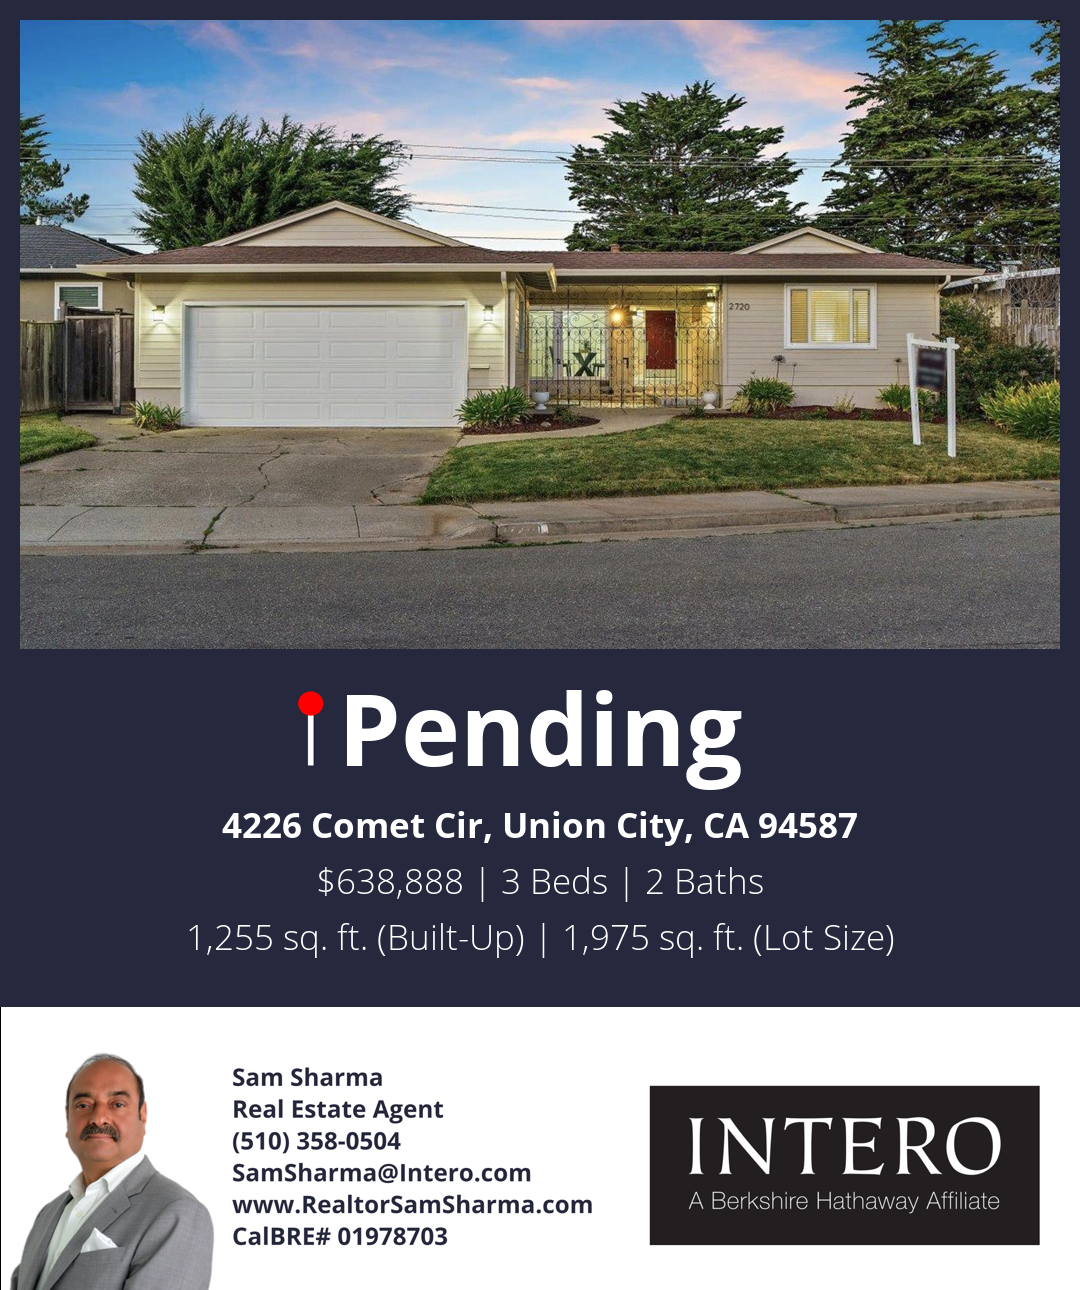
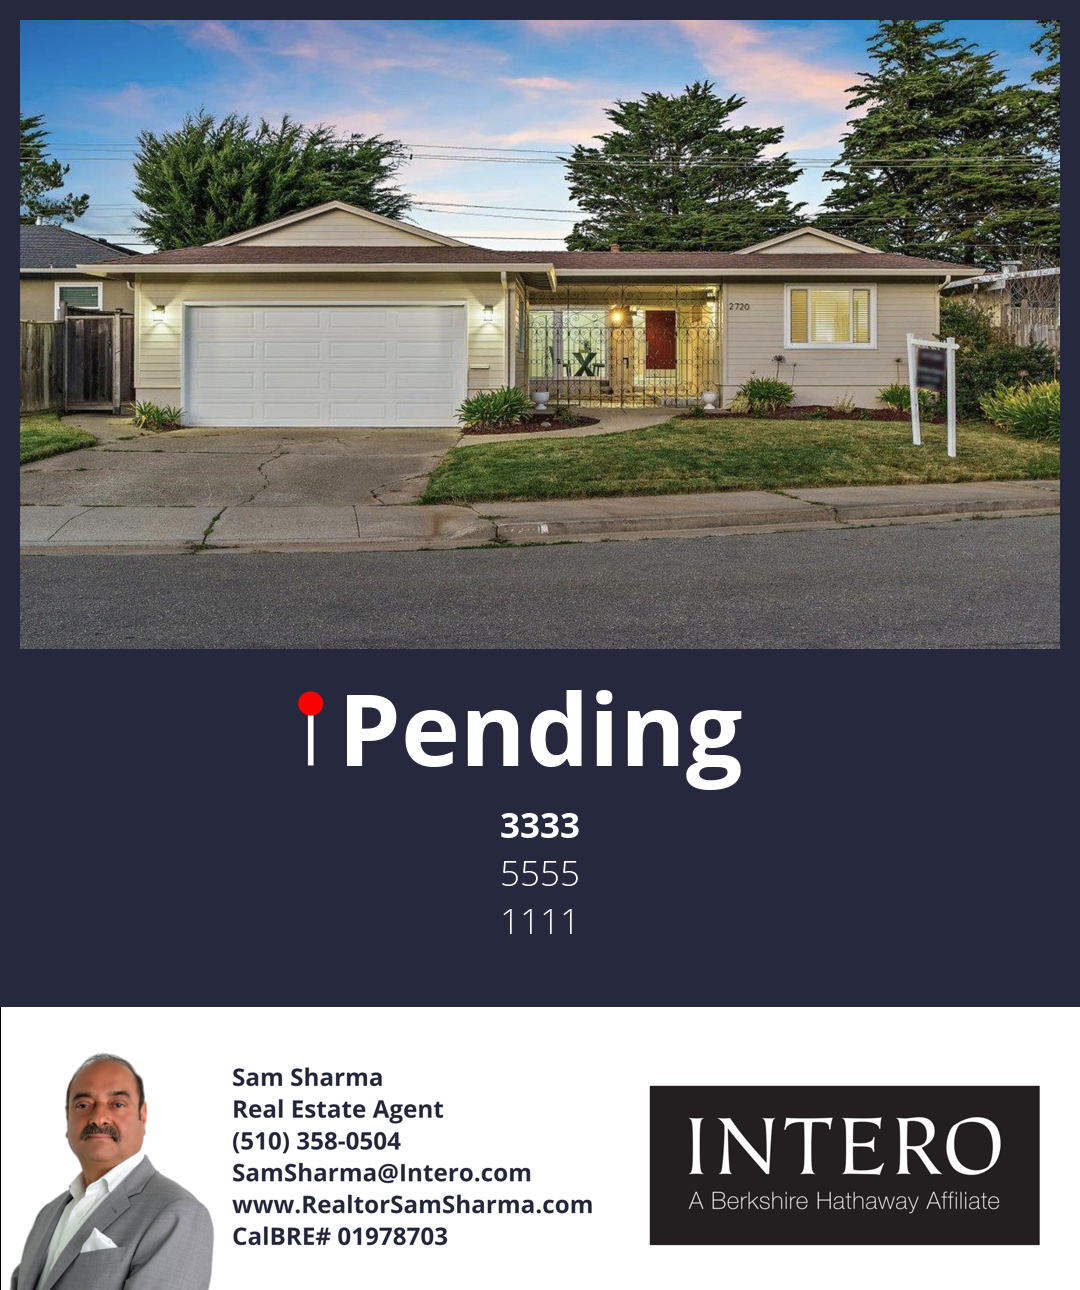
generating and rendering image

diff --git a/app/page.tsx b/app/page.tsx
@@ -1,15 +1,30 @@
+"use client";
 import Image from "next/image";
 import runPythonScript from "./api/hello/runPyScript";
-import { useState } from "react";
+import { useEffect, useState } from "react";
+import ImgDiv from "./form";
+import Form from "./form";
 
-export default async function Home() {
-  const staticData = await fetch(`http://localhost:3000/api/hello`, {
-    cache: "force-cache",
-  });
+export default function Home() {
+  const [showImg, setShowImg] = useState(false);
+  const [fileName, setFileName] = useState("output");
 
-  const staticDataJSON = await staticData.json();
-  console.log("JSON.stringify(staticData, null, 2)");
-  console.log(JSON.stringify(staticDataJSON, null, 2));
+  // useEffect(() => {
+  //   const staticData = fetch(`http://localhost:3000/api/hello`, {
+  //     cache: "no-cache",
+  //   });
+
+  //   staticData
+  //     .then((res) => {
+  //       return res.json();
+  //     })
+  //     .then((data) => {
+  //       console.log(data);
+  //       console.log("data");
+  //       setShowImg(true);
+  //     });
+  // }, []);
+
   const mockReq = {} as any; // Replace with actual data if necessary
   const mockRes = {
     status: (statusCode: number) => ({
@@ -18,9 +33,7 @@ export default async function Home() {
       },
     }),
   } as any;
-  await runPythonScript(mockReq, mockRes);
-
-  console.log('completed"');
+  // runPythonScript(mockReq, mockRes);
 
   return (
     <main className="flex min-h-screen flex-col items-center justify-between p-24">
@@ -29,7 +42,23 @@ export default async function Home() {
           Auto Design Generator
           <code className="font-mono font-bold">app/page.tsx</code>
         </p>
-        <img src="public/output.png" />
+        {/* <ImgDiv /> */}
+        <Form
+          setShowImg={setShowImg}
+          fileName={fileName}
+          setFileName={setFileName}
+        />
+        {showImg && (
+          <Image
+            src={`/${fileName}`}
+            alt="Next.js Logo"
+            width={700}
+            height={500}
+            priority
+            key={Date.now()}
+          />
+        )}
+
         <div className="fixed bottom-0 left-0 flex h-48 w-full items-end justify-center bg-gradient-to-t from-white via-white dark:from-black dark:via-black lg:static lg:h-auto lg:w-auto lg:bg-none">
           <a
             className="pointer-events-none flex place-items-center gap-2 p-8 lg:pointer-events-auto lg:p-0"

diff --git a/app/form.tsx b/app/form.tsx
@@ -1,0 +1,90 @@
+import { useState } from "react";
+
+interface FormProps {
+  setShowImg: React.Dispatch<React.SetStateAction<boolean>>;
+  setFileName: React.Dispatch<React.SetStateAction<string>>;
+  fileName: string;
+}
+
+export default function Form({ setShowImg, setFileName, fileName }: FormProps) {
+  const [formData, setFormData] = useState({
+    address: "",
+    priceBedBath: "",
+    builtUpLotSize: "",
+  });
+
+  const handleSubmit = async (event: React.FormEvent<HTMLFormElement>) => {
+    setShowImg(false);
+    event.preventDefault();
+    // Handle form submission here
+    console.log("here");
+    const queryParams = new URLSearchParams(formData).toString();
+
+    const updatedFileName = `output${Date.now()}.png`;
+    setFileName(updatedFileName);
+    const res = await fetch(
+      `/api/hello?${queryParams}&fileName=${updatedFileName}`,
+      {
+        cache: "no-cache",
+      }
+    ).then((res) => setShowImg(true));
+  };
+
+  const handleChange = (event: React.ChangeEvent<HTMLInputElement>) => {
+    const { name, value } = event.target;
+    setFormData((prevState) => ({
+      ...prevState,
+      [name]: value,
+    }));
+  };
+
+  return (
+    <>
+      <br />
+      <form
+        onSubmit={handleSubmit}
+        style={{
+          display: "flex",
+          flexDirection: "column",
+          gap: ".5rem",
+          color: "red",
+        }}
+      >
+        <label htmlFor="address">Address:</label>
+        <input
+          id="address"
+          name="address"
+          type="text"
+          value={formData.address}
+          onChange={handleChange}
+        />
+
+        <label htmlFor="priceBedBath">PriceBedBath:</label>
+        <input
+          id="priceBedBath"
+          name="priceBedBath"
+          type="text"
+          value={formData.priceBedBath}
+          onChange={handleChange}
+        />
+
+        <label htmlFor="builtUpLotSize">BuiltUpLotSize:</label>
+        <input
+          id="builtUpLotSize"
+          name="builtUpLotSize"
+          type="builtUpLotSize"
+          value={formData.builtUpLotSize}
+          onChange={handleChange}
+        />
+
+        <button type="submit" style={{ border: "solid 1px red" }}>
+          Submit
+        </button>
+        {/* <button type="button" onClick={() => setShowImg(true)}>
+        Show Image
+      </button> */}
+      </form>
+      <br />
+    </>
+  );
+}

diff --git a/app/api/hello/route.ts b/app/api/hello/route.ts
@@ -1,10 +1,42 @@
+import { exec } from "child_process";
 import { NextRequest, NextResponse } from "next/server";
 
 export async function GET(request: NextRequest) {
-  const greeting = "Hello World!!";
+  const greeting = "Hello s!!";
   const json = {
     greeting,
   };
+  console.log(request.url);
+  const query = request.url.split("?")[1];
+  const searchParams = new URLSearchParams(query);
 
+  const address = searchParams.get("address");
+  const priceBedBath = searchParams.get("priceBedBath");
+  const builtUpLotSize = searchParams.get("builtUpLotSize");
+  const fileName = searchParams.get("fileName");
+
+  if (address == null || priceBedBath == null || builtUpLotSize == null) {
+    console.log("returning from execute API call");
+    return NextResponse.json(json);
+  }
+  json.greeting = await new Promise((resolve, reject) => {
+    exec(
+      `python3 myscript.py ${address} ${priceBedBath} ${builtUpLotSize} ${fileName}`,
+      (error, stdout, stderr) => {
+        if (error) {
+          console.error(`exec error: ${error}`);
+          json.greeting = "err";
+          reject(error);
+        } else {
+          json.greeting = "eee";
+          console.log("stdout");
+          console.log(stdout);
+          resolve(stdout);
+        }
+      }
+    );
+  });
+
+  console.log("inside get call");
   return NextResponse.json(json);
 }

diff --git a/app/api/runpyscript/route.ts b/app/api/runpyscript/route.ts
@@ -1,0 +1,46 @@
+import { NextApiRequest, NextApiResponse } from "next";
+import { exec } from "child_process";
+
+import { NextRequest, NextResponse } from "next/server";
+
+export async function GET(request: NextRequest) {
+  const greeting = "Hello World!!";
+  const json = {
+    greeting,
+  };
+
+  return NextResponse.json(json);
+}
+// export async function GET(request: NextRequest) {
+//   const greeting = "Hello World!!";
+//   const json = {
+//     success: "234",
+//   };
+
+//   // exec("python3 myscript.py", (error, stdout, stderr) => {
+//   //   if (error) {
+//   //     console.error(`exec error: ${error}`);
+
+//   //     return;
+//   //   }
+//   //   json.success = "123";
+//   // });
+//   return NextResponse.json(json);
+// }
+
+// export const runPythonScript = (
+//   req: NextApiRequest,
+//   res: NextApiResponse
+// ): Promise<any> => {
+//   return new Promise((resolve, reject) => {
+//     exec("python3 myscript.py", (error, stdout, stderr) => {
+//       if (error) {
+//         console.error(`exec error: ${error}`);
+//         reject(error);
+//         return;
+//       }
+//       resolve(stdout);
+//     });
+//   });
+// };
+// export default runPythonScript;

diff --git a/myscript.py b/myscript.py
@@ -1,8 +1,13 @@
-print("Hello from the Python sss!")
 from io import BytesIO
 from PIL import Image, ImageDraw, ImageFont
 import requests
+import sys
 
+subheading_text1 = sys.argv[1]
+subheading_text2 = sys.argv[2]
+subheading_text3 = sys.argv[3]
+fileName = sys.argv[4]
+fileName = './public/' + fileName
 # Define font paths
 font_bold = "OpenSans-Bold.ttf"
 font_light = "OpenSans-Light.ttf"
@@ -41,9 +46,9 @@ font_subheading1 = ImageFont.truetype(font_bold, 35)
 font_subheading = ImageFont.truetype(font_light, 35)
 
 heading_text = "Pending"
-subheading_text1 = "4226 Comet Cir, Union City, CA 94587"
-subheading_text2 = "$638,888 | 3 Beds | 2 Baths"
-subheading_text3 = "1,255 sq. ft. (Built-Up) | 1,975 sq. ft. (Lot Size)"
+# subheading_text1 = "4226 Comet Cir, Union City, CA 94587"
+# subheading_text2 = "$638,888 | 3 Beds | 2 Baths"
+# subheading_text3 = "1,255 sq. ft. (Built-Up) | 1,975 sq. ft. (Lot Size)"
 
 heading_size = draw.textsize(heading_text, font_heading)
 subheading_size1 = draw.textsize(subheading_text1, font_subheading1)
@@ -73,4 +78,6 @@ img.paste(pin_img, (int(heading_center_x) - 39 , heading_y + 32))
 img.paste(img2, (0, img_height - img2_new_height))
 
 # Save image
-img.save("output.png")
+img.save(fileName)
+
+print('Done image processing!')
